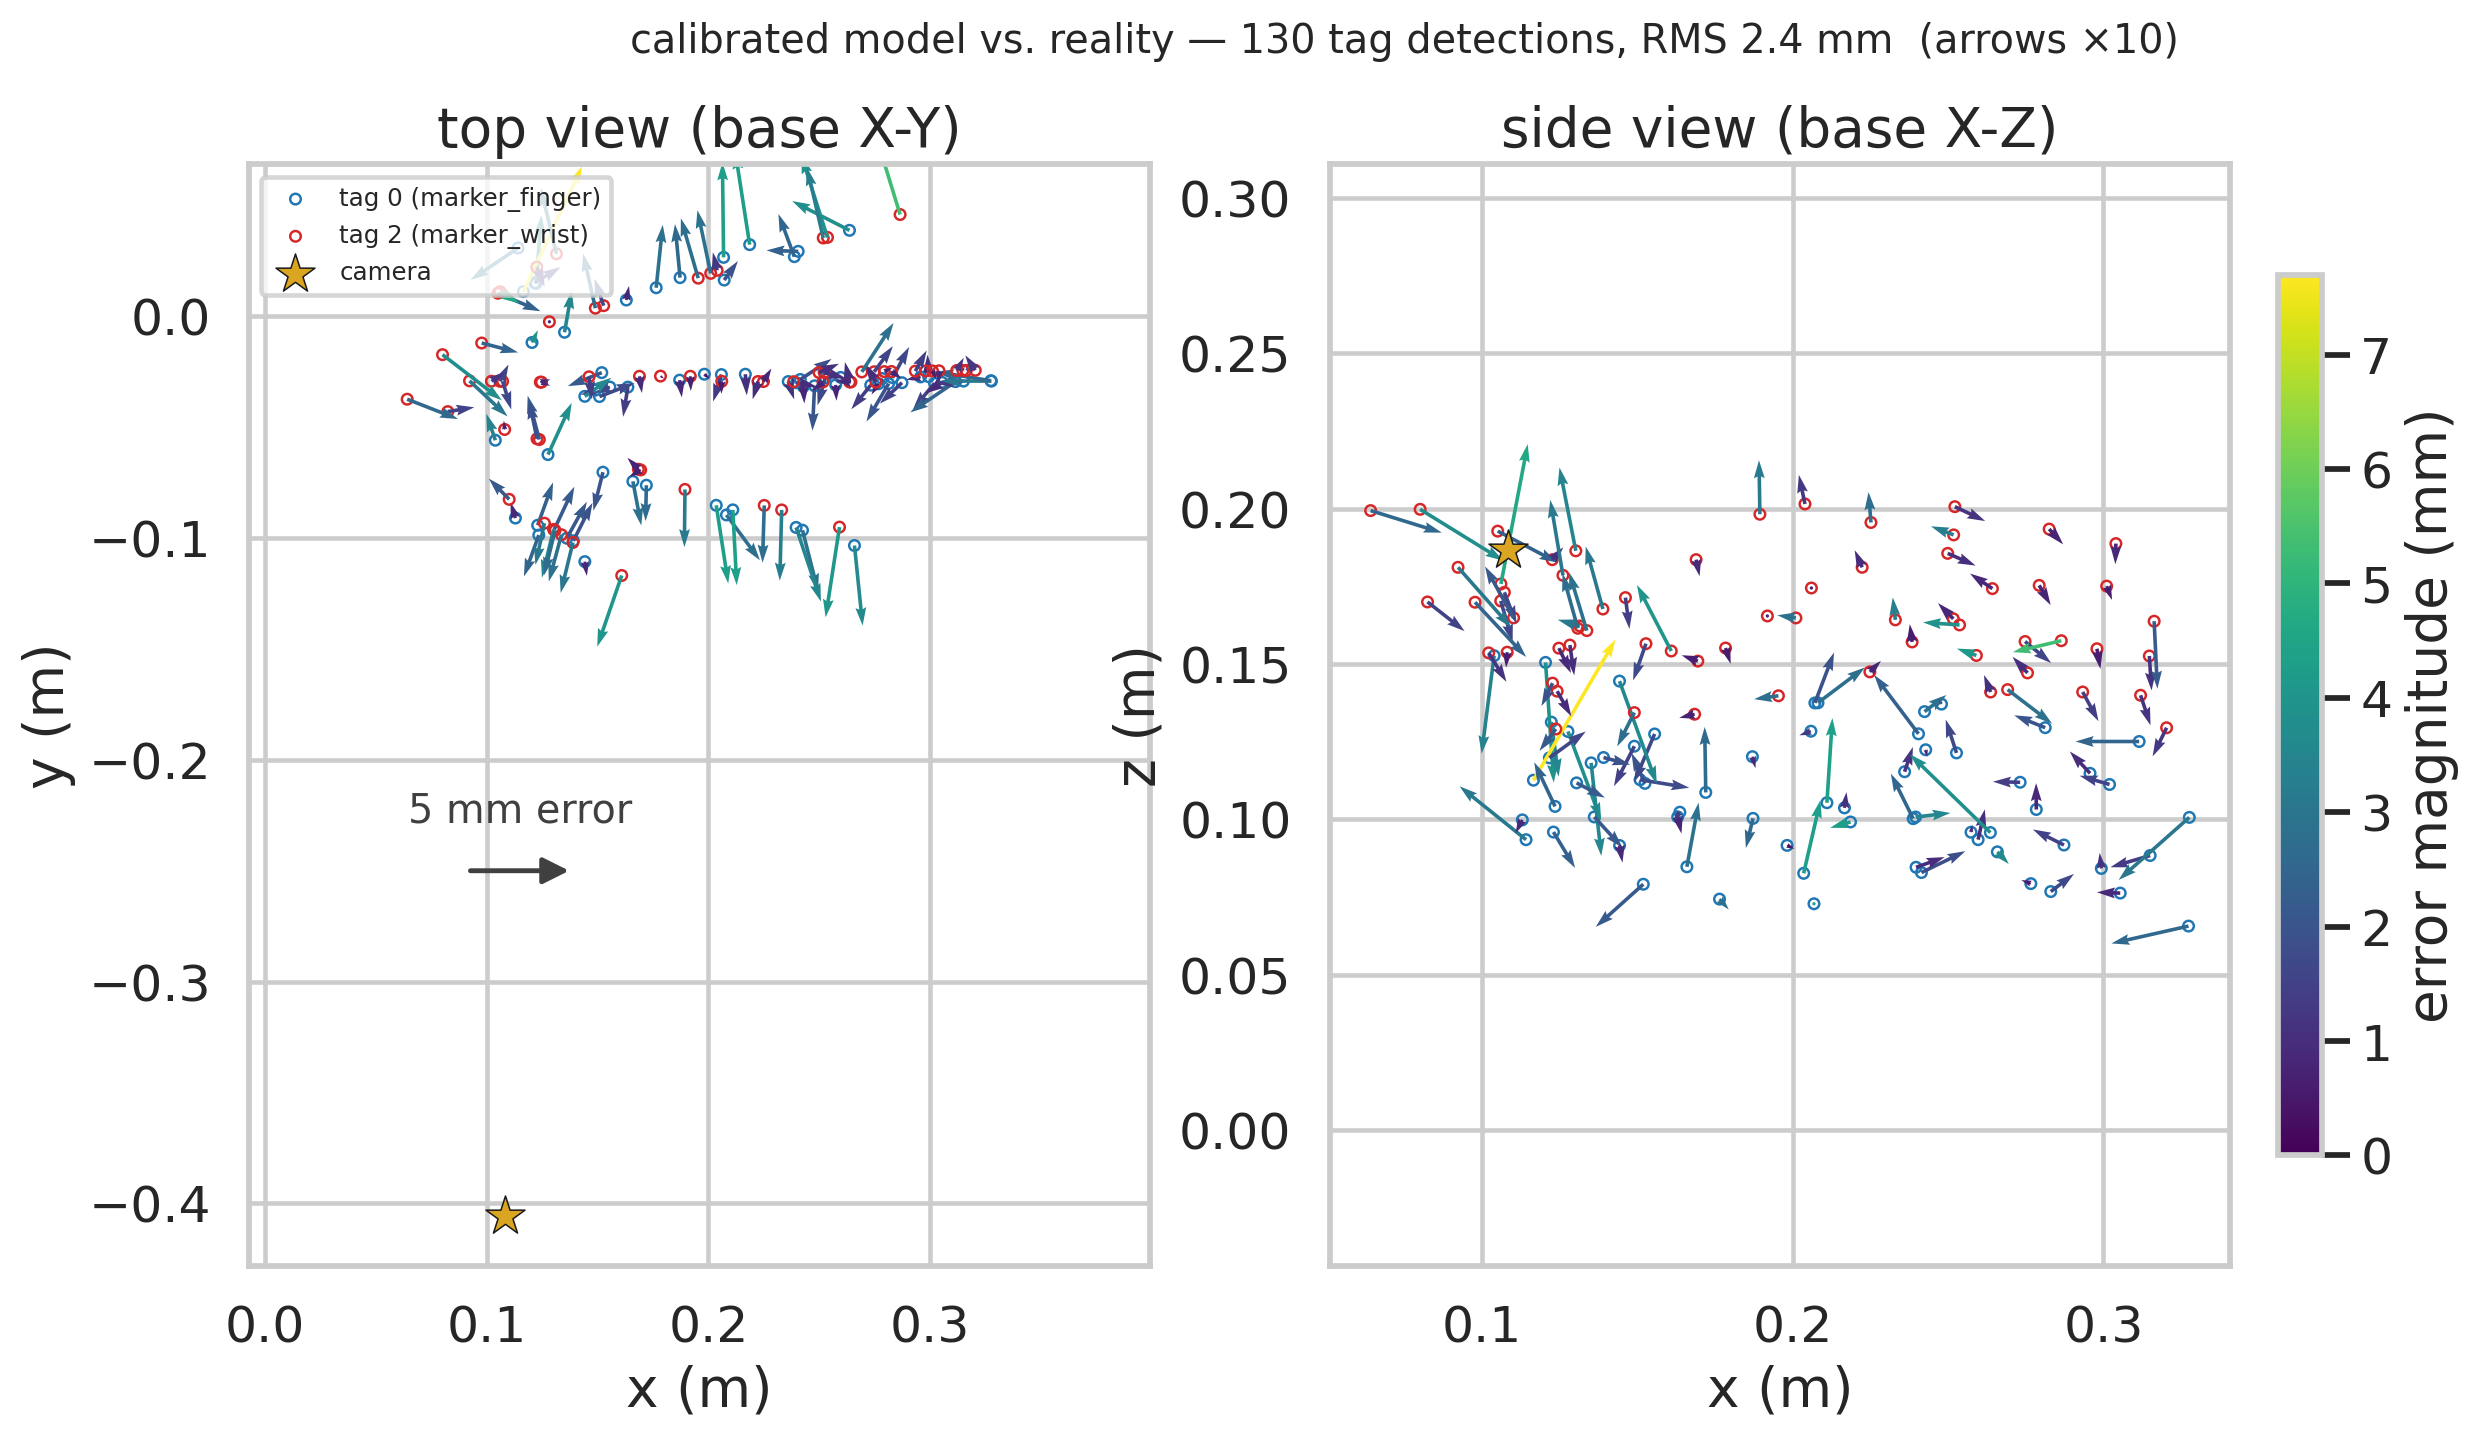
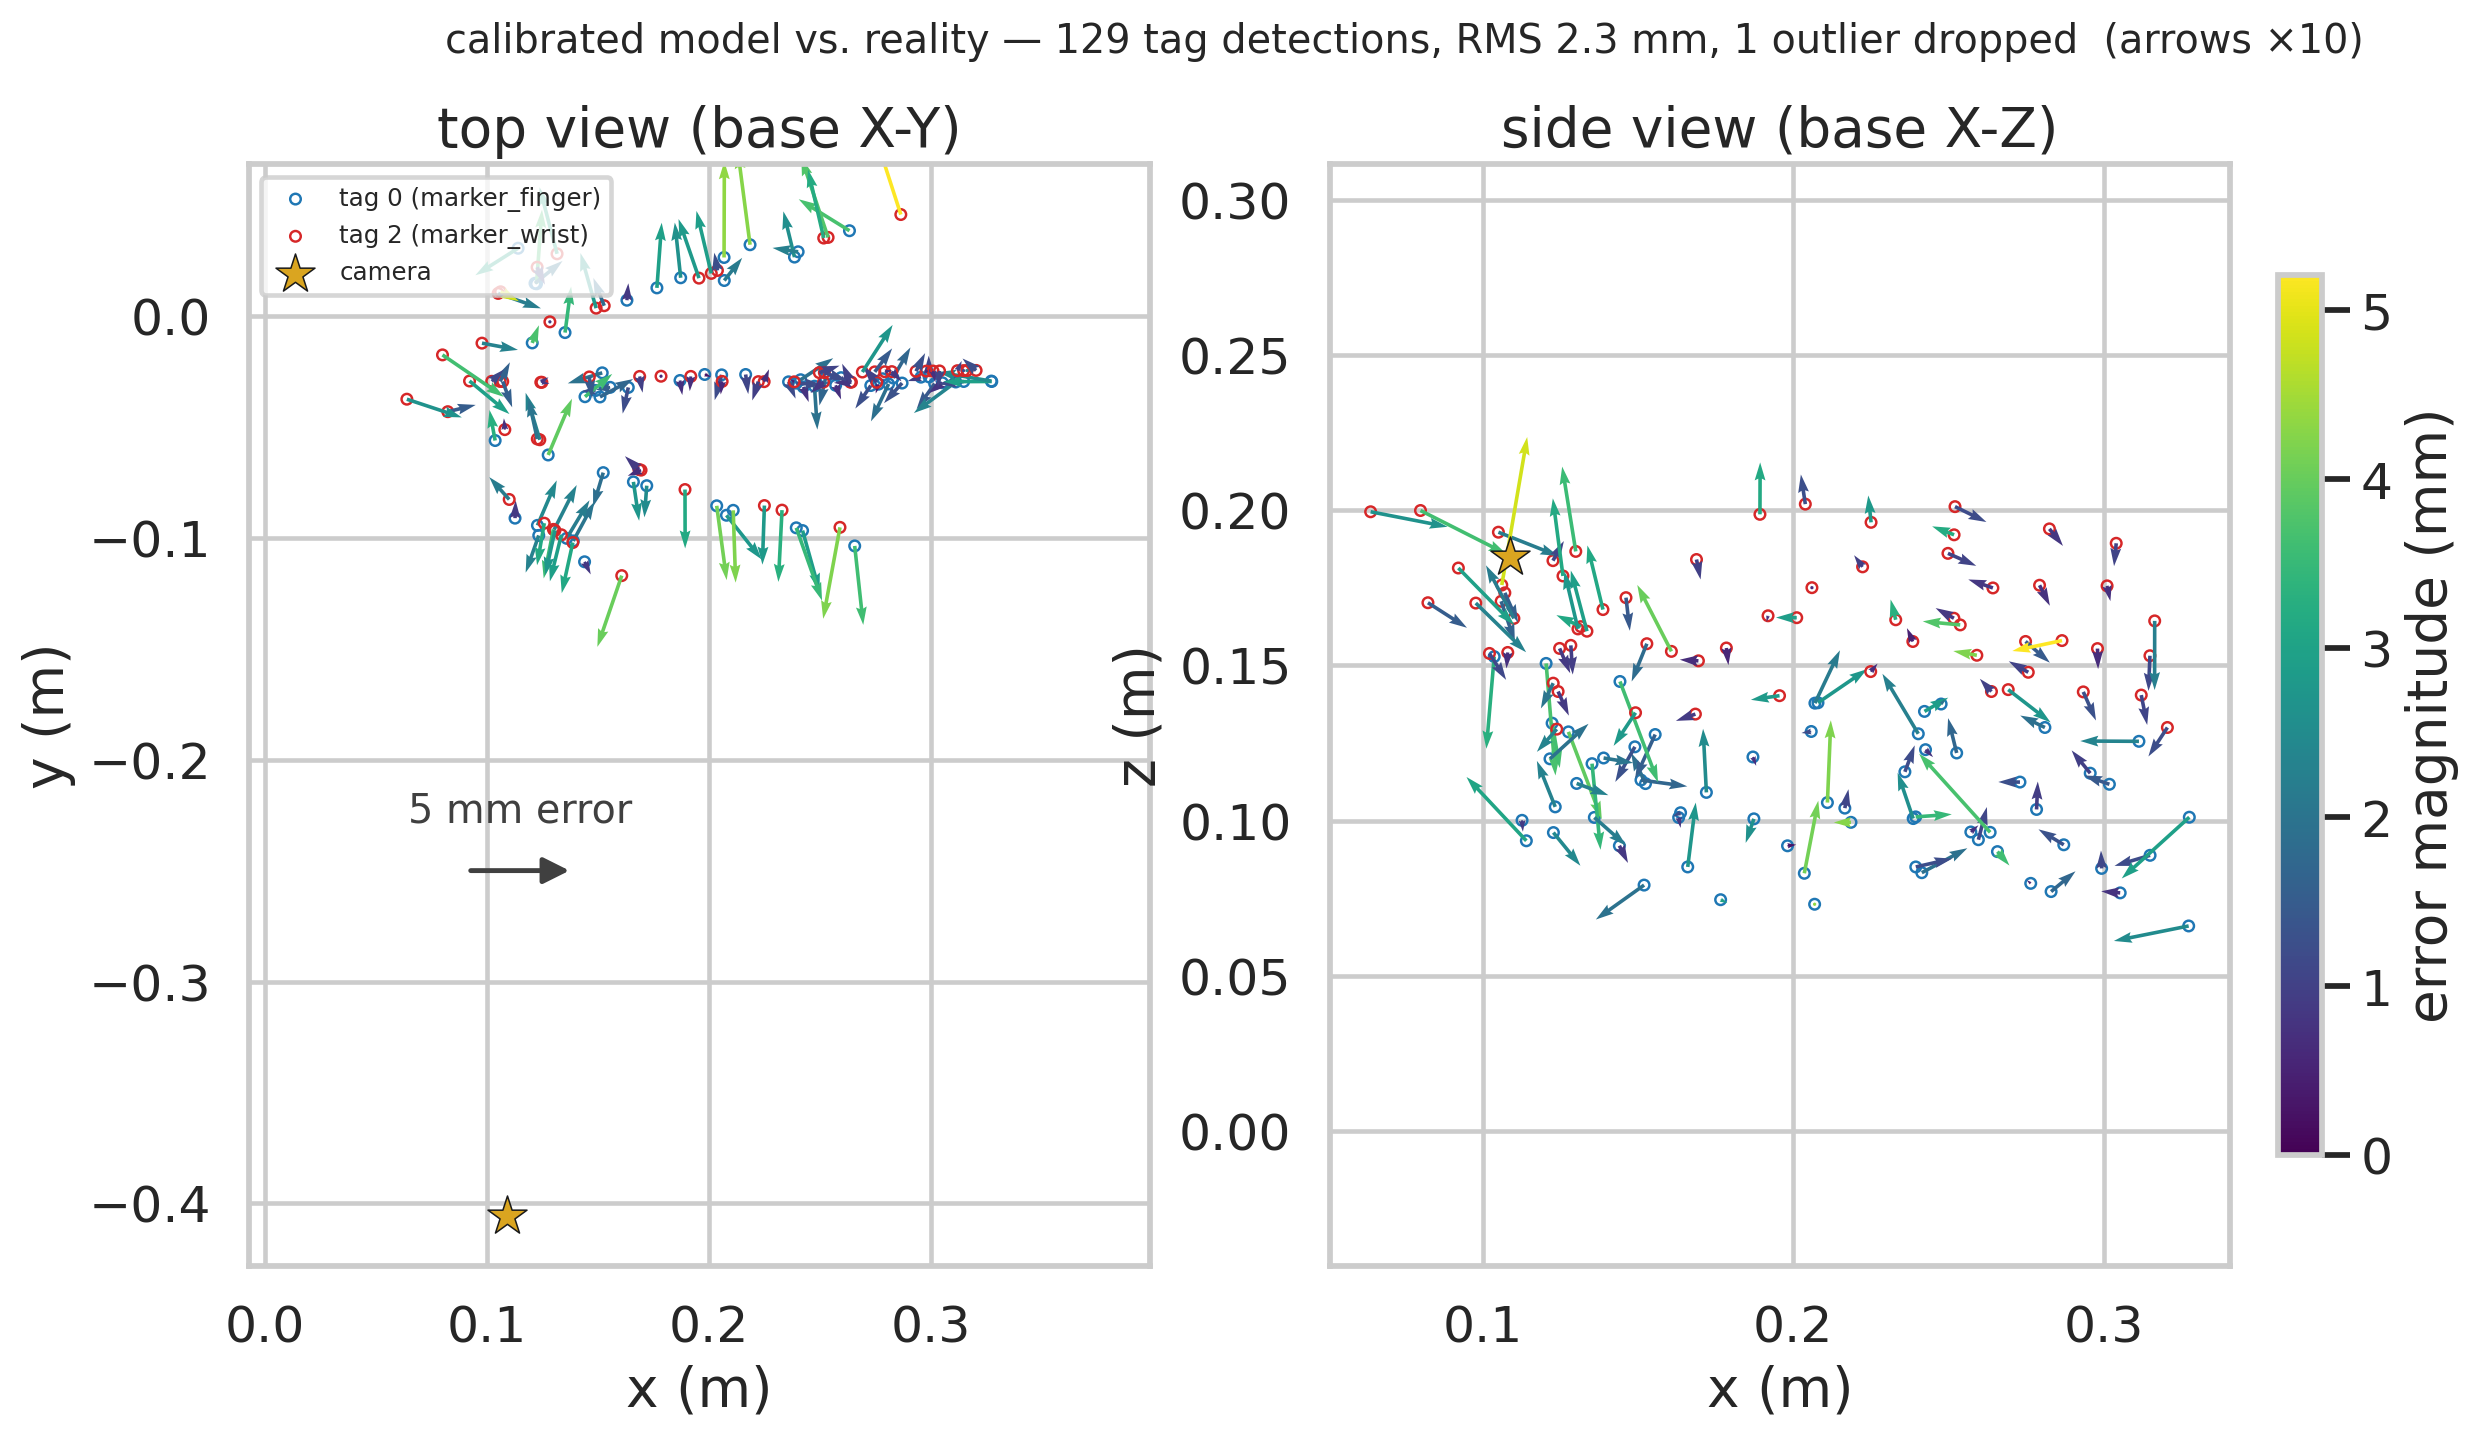
Threshold outlier rejection on the compliance-aware model, drop 1 stale point
reject_outliers scored arm-tag residuals against the bias-only fit (~4 mm RMS,
robust cutoff ~9 mm), so a genuine per-pose outlier could hide under the loose
cutoff while the deployed compliance-aware model (~2 mm RMS, cutoff ~6.5 mm)
sees it clearly. It now solves bias+compliance (new solve_bias_compliance,
mounts held at their <0.5 mm XML values) inside the reject loop.

On the committed 65-sample set this drops sample 31's finger tag (7.7 mm; both
tags common-mode +z, the signature of a not-fully-settled capture, not a single
solvePnP fluke). That point was tugging the wrist_roll zero 0.3 deg and elbow
0.23 deg. Re-solved offline from real/qpos_calib_samples.json:
committed residual 2.42 -> 2.31 mm RMS. The re-solve shifted extrinsics ~0.5 mm,
so so101.xml tag_cam_mount was re-derived (OpenCV->OpenGL convention verified
against the prior committed pose first).

plot_calib_residuals now excludes the rejected outlier (via the same
reject_outliers pass) instead of drawing it, and notes the dropped count in the
title; the plotted RMS (2.31 mm over 129 kept) now matches calibration.yaml.

diff --git a/real/calibrate_qpos.py b/real/calibrate_qpos.py
@@ -26,7 +26,9 @@ How it works:
     sim, so the homing ramp between two low samples can never dive into the table.
   - Before the final solve it rejects outlier arm-tag detections: a single tag
     mis-detected at one pose (solvePnP fluke / motion blur) is dropped on a robust
-    residual cutoff and the bias+camera re-fit, so one bad point can't skew either.
+    residual cutoff (against the compliance-aware forward model, so a real per-pose
+    outlier can't hide in the looser bias-only field) and the fit re-run, so one bad
+    point can't skew it.
 
 The dry-run (no --execute) previews the sweep in the sim viewer (one pose/second),
 so the trajectory can be eyeballed before any hardware moves. With --stream-port
@@ -141,10 +143,13 @@ MOUNT_OFFSET_WARN_MM = 12.0  # past this the prior can't be the whole story: a t
 # noise, but a single arm tag mis-detected at one pose (solvePnP corner fluke,
 # motion blur, partial occlusion) survives as a point whose post-fit residual sits
 # far above the few-mm bulk. Before the final solve we drop such points and re-fit,
-# so one bad detection can't tug the bias or the camera. Threshold is robust
-# (median + K * scaled-MAD of the residual) with a floor so a tight clean fit isn't
-# pruned. Only arm tags are rejected here; the table tag's repeatability is its own
-# gate in solve_table.
+# so one bad detection can't tug the bias or the camera. The residual is scored
+# against the compliance-aware forward model (solve_bias_compliance), not bias-only:
+# the unmodelled load-deflection roughly doubles the bias-only spread, and a genuine
+# per-pose outlier can sit under the robust cutoff of that looser field while standing
+# clear of the tighter compliance-aware one. Threshold is robust (median + K *
+# scaled-MAD of the residual) with a floor so a tight clean fit isn't pruned. Only arm
+# tags are rejected here; the table tag's repeatability is its own gate in solve_table.
 OUTLIER_MAD_K = 3.5          # drop arm points past median + K * (1.4826*MAD) of the residual
 OUTLIER_FLOOR_MM = 6.0       # ...but never below this, so a clean fit isn't over-pruned
 OUTLIER_MAX_ITERS = 5        # re-fit after each cut; a gross outlier inflates the MAD
@@ -632,6 +637,34 @@ def _unpack_calibration(params, n_sites):
     return b_full, offsets, compliance
 
 
+def bias_compliance_residuals(params, samples, model, data, qposadr, site_ids):
+    """Position residuals of the settled FK of the bias+compliance-corrected pose vs
+    the optimally-aligned camera points (`params` = 4 observable biases then the
+    COMP_JOINTS compliance coefficients; layout is _unpack_calibration with 0 sites).
+    Mounts are held at their current XML values -- they shift a tag <0.5 mm, so they
+    don't change which point is an outlier, and leaving them fixed keeps this solve
+    cheap for the reject loop. The camera stays the closed-form Umeyama inner fit."""
+    b_full, _, compliance = _unpack_calibration(params, 0)
+    corrected = _true_poses(samples, model, data, qposadr, b_full, compliance)
+    src, dst, _ = paired_points(corrected, model, data, qposadr, site_ids)
+    T, _ = rigid_register(src, dst)
+    return (dst - (src @ T[:3, :3].T + T[:3, 3])).ravel()
+
+
+def solve_bias_compliance(samples, model, data, qposadr, site_ids):
+    """4 observable-joint biases + per-COMP_JOINTS gravity compliance (mounts fixed),
+    the forward model outlier rejection thresholds against. Solving compliance here too
+    matters: the bias-only field is ~2x looser (its unmodelled load-deflection inflates
+    the residual spread), so a real per-pose outlier hides under the robust cutoff that
+    the tighter compliance-aware field flags. Returns (b_full, compliance) as 6-vectors
+    padded with 0 on the pinned/rigid joints."""
+    n = len(OBSERVABLE_JOINTS) + len(COMP_JOINTS)
+    res = least_squares(bias_compliance_residuals, np.zeros(n),
+                        args=(samples, model, data, qposadr, site_ids))
+    b_full, _, compliance = _unpack_calibration(res.x, 0)
+    return b_full, compliance
+
+
 def mount_bias_residuals(params, samples, model, data, qposadr, site_ids, nominal):
     """Residual for the joint bias + per-tag mount-offset + gravity-compliance solve
     (`params` layout: see _unpack_calibration). Each offset shifts its tag's site to
@@ -683,7 +716,8 @@ def _arm_point_keys(samples, site_ids):
 
 def reject_outliers(samples, model, data, qposadr, site_ids):
     """Drop arm-tag observations whose post-fit residual is a robust outlier,
-    re-solving the bias+camera after each cut. Returns (kept_samples, dropped),
+    re-solving the bias, compliance & camera after each cut (see solve_bias_compliance
+    on why the reject model must carry compliance). Returns (kept_samples, dropped),
     where dropped is a list of (sample_idx, tag, err_mm) on the original indices.
 
     The table tag is never touched (solve_table needs it and gates it separately);
@@ -695,8 +729,8 @@ def reject_outliers(samples, model, data, qposadr, site_ids):
     n_points0 = len(_arm_point_keys(samples, site_ids))
     dropped = []
     for _ in range(OUTLIER_MAX_ITERS):
-        b_full = solve_bias(samples, model, data, qposadr, site_ids)
-        corrected = [(qpos - b_full, poses) for qpos, poses in samples]
+        b_full, compliance = solve_bias_compliance(samples, model, data, qposadr, site_ids)
+        corrected = _true_poses(samples, model, data, qposadr, b_full, compliance)
         _, _, _, err_mm = solve_camera(corrected, model, data, qposadr, site_ids)
         keys = _arm_point_keys(samples, site_ids)
         assert len(keys) == len(err_mm)

diff --git a/real/plot_calib_residuals.py b/real/plot_calib_residuals.py
@@ -8,9 +8,11 @@ after calibration and its direction tells you *which way* the model is wrong the
 
 The committed artifacts are evaluated as-is — bias from calibration.yaml, camera
 from extrinsics.yaml, marker sites (solved mounts included) from the XML — with the
-same gravity-settled FK the solve used. No re-solving, so the plot can never drift
+same gravity-settled FK the solve used, so the plotted residual vectors can't drift
 from the model deployment actually uses. Detections the calibration rejected as
-outliers are still plotted; they stick out, which is the point of a residual map.
+outliers are excluded (the same reject_outliers pass the solve runs picks them out, so
+the plot shows the residual field the kept data actually produced) and their count is
+noted in the title.
 
 Two base-frame views (top X-Y and side X-Z) together carry all three error
 components; arrow colour is the full 3-D magnitude so hotspots show in either view.
@@ -32,7 +34,8 @@ import numpy as np
 import seaborn as sns
 
 from real.calib_solve import load_samples
-from real.calibrate_qpos import DEFAULT_CAL, DEFAULT_XML, SAMPLES_PATH, _true_poses, paired_points
+from real.calibrate_qpos import (
+    DEFAULT_CAL, DEFAULT_XML, SAMPLES_PATH, _true_poses, paired_points, reject_outliers)
 from real.calibration import load_calibration, load_compliance
 from real.extrinsics import load_extrinsics
 from real.marker_spec import ARM_TAG_TO_SITE
@@ -96,7 +99,7 @@ def _reference_arrow(ax):
             ha="center", va="bottom", color="0.25", fontsize=13)
 
 
-def plot(p_model, resid, tags, cam_pos, out_path, rms_mm):
+def plot(p_model, resid, tags, cam_pos, out_path, rms_mm, n_dropped):
     sns.set_theme(style="whitegrid", context="talk")
     mag_mm = np.linalg.norm(resid, axis=1) * 1000.0
     labels = ("x", "y", "z")
@@ -109,8 +112,10 @@ def plot(p_model, resid, tags, cam_pos, out_path, rms_mm):
     _reference_arrow(axes[0])
     fig.colorbar(q, ax=axes, shrink=0.8, label="error magnitude (mm)", pad=0.02)
     axes[0].legend(loc="upper left", fontsize=8)
+    dropped_note = (f", {n_dropped} outlier{'s' if n_dropped != 1 else ''} dropped"
+                    if n_dropped else "")
     fig.suptitle(f"calibrated model vs. reality — {len(tags)} tag detections, "
-                 f"RMS {rms_mm:.1f} mm  (arrows ×{EXAGGERATE:.0f})", fontsize=13)
+                 f"RMS {rms_mm:.1f} mm{dropped_note}  (arrows ×{EXAGGERATE:.0f})", fontsize=13)
     fig.savefig(out_path, dpi=DPI, bbox_inches="tight")
     print(f"wrote {out_path}")
 
@@ -135,14 +140,18 @@ def main():
 
     samples = load_samples(args.from_samples)
     print(f"loaded {len(samples)} samples from {args.from_samples}")
+    kept, dropped = reject_outliers(samples, model, data, jm.qposadr(), site_ids)
+    for i, tag, e in sorted(dropped):
+        print(f"  excluding rejected outlier: sample {i + 1} tag {tag} "
+              f"({ARM_TAG_TO_SITE[tag]}) residual {e:.1f} mm")
     p_model, resid, tags, b_full = compute_residuals(
-        samples, model, data, jm.qposadr(), site_ids)
+        kept, model, data, jm.qposadr(), site_ids)
     rms_mm = np.sqrt(np.mean(np.sum(resid ** 2, axis=1))) * 1000.0
     print("committed bias (deg): " + ", ".join(
         f"{n}={np.degrees(b):+.2f}" for n, b in zip(JOINT_NAMES, b_full)))
-    print(f"residual RMS {rms_mm:.2f} mm over {len(tags)} detections "
-          "(all detections incl. any the solve rejected)")
-    plot(p_model, resid, tags, tag_cam_world_pos(model, data), args.out, rms_mm)
+    print(f"residual RMS {rms_mm:.2f} mm over {len(tags)} kept detections "
+          f"({len(dropped)} outlier(s) dropped)")
+    plot(p_model, resid, tags, tag_cam_world_pos(model, data), args.out, rms_mm, len(dropped))
 
 
 if __name__ == "__main__":
